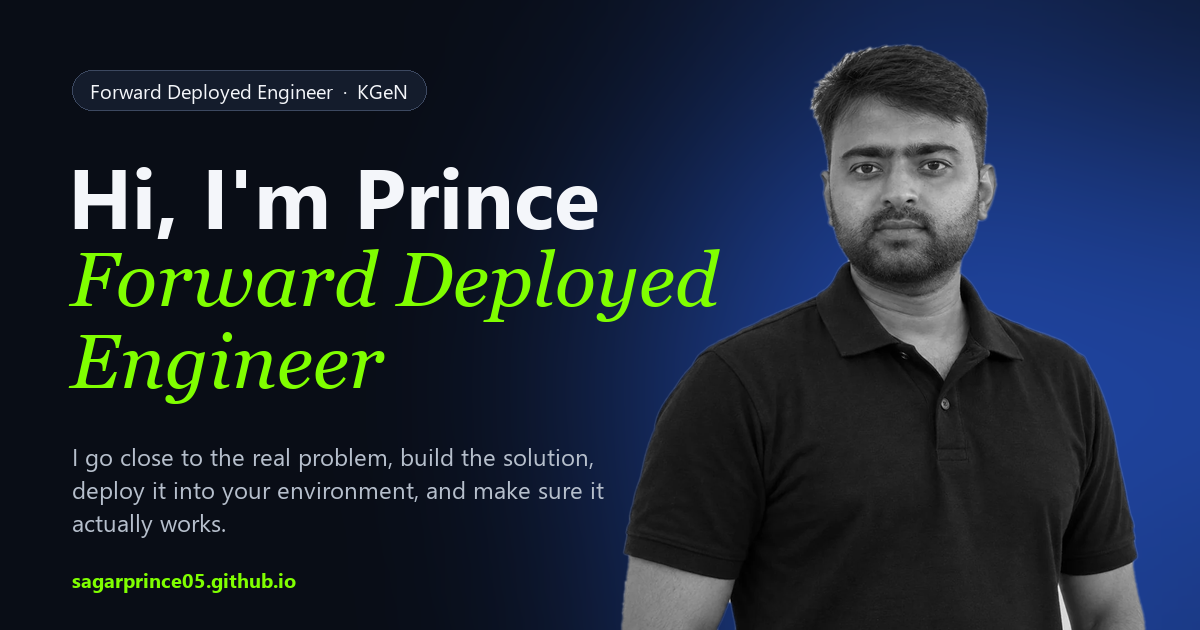
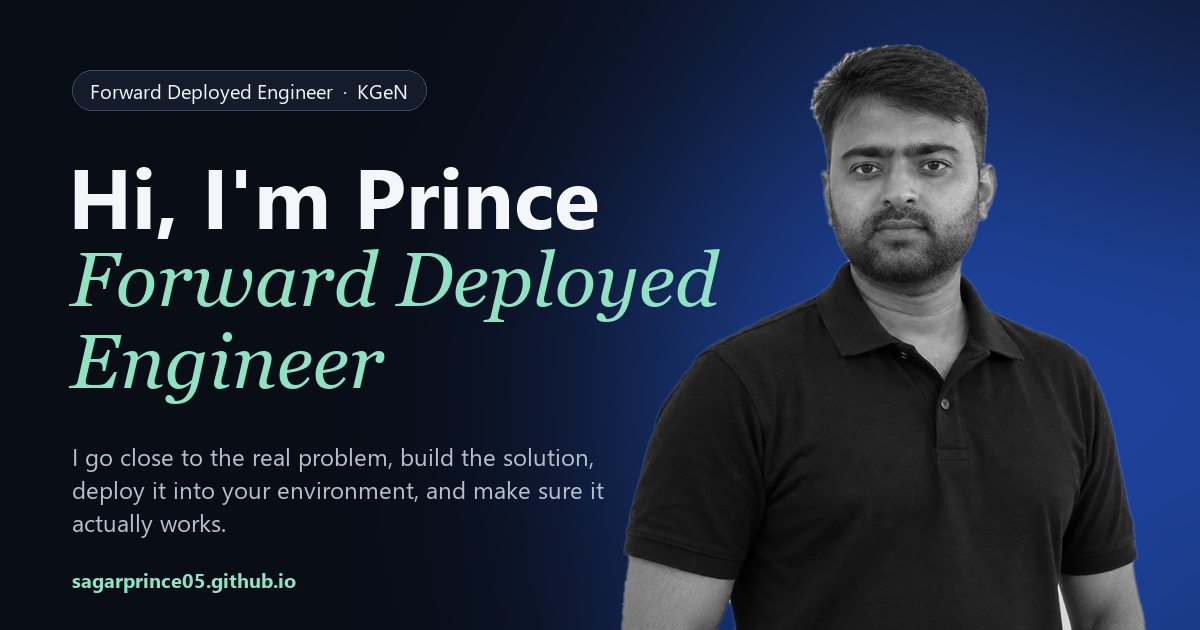
Accent: switch to mint (#8fe3c2)

diff --git a/index.html b/index.html
@@ -16,13 +16,13 @@
   <meta property="og:image" content="https://sagarprince05.github.io/assets/og.png">
   <meta name="twitter:card" content="summary_large_image">
 
-  <link rel="icon" href="assets/favicon.svg?v=20260915c" type="image/svg+xml">
+  <link rel="icon" href="assets/favicon.svg?v=20260915d" type="image/svg+xml">
   <link rel="canonical" href="https://sagarprince05.github.io">
 
   <link rel="preconnect" href="https://fonts.googleapis.com">
   <link rel="preconnect" href="https://fonts.gstatic.com" crossorigin>
   <link href="https://fonts.googleapis.com/css2?family=Inter:wght@400;500;600;700&family=Instrument+Serif:ital@0;1&display=swap" rel="stylesheet">
-  <link rel="stylesheet" href="styles.css?v=20260915c">
+  <link rel="stylesheet" href="styles.css?v=20260915d">
   <link rel="preload" as="image" href="assets/prince.webp" type="image/webp">
 
   <script type="application/ld+json">
@@ -98,7 +98,7 @@
             <span class="stack" aria-hidden="true">
               <span style="background:#2f6bff">HL</span>
               <span style="background:#7c3aed">KG</span>
-              <span style="background:#80ff00;color:#0b0d12">AK</span>
+              <span style="background:#8fe3c2;color:#0b0d12">AK</span>
             </span>
             <span><strong>Trusted by teams</strong> at Humyn Labs, KGeN and AK English Academy — 5 products live in production.</span>
           </p>
@@ -138,13 +138,13 @@
       <div class="statement-wrap">
         <h2 class="statement" id="about-title">My focus is on <em>going close to the real problem</em> — understanding it with the people who own it, building the solution, deploying it into their environment, and <span class="soft">making sure it actually works there, not just in a demo.</span></h2>
         <ul class="chips" aria-label="What I do">
-          <li class="chip"><i style="background:#80ff00"></i>AI / LLM apps &amp; agents</li>
+          <li class="chip"><i style="background:#8fe3c2"></i>AI / LLM apps &amp; agents</li>
           <li class="chip"><i style="background:#2f6bff"></i>Workflow automation</li>
           <li class="chip"><i style="background:#8fd3ff"></i>API &amp; data integration</li>
           <li class="chip"><i style="background:#ffb3c7"></i>Text-to-SQL</li>
           <li class="chip"><i style="background:#f4f6fa"></i>Cloud deployment</li>
           <li class="chip"><i style="background:#c9b6ff"></i>Rapid prototyping</li>
-          <li class="chip"><i style="background:#14b8a6"></i>Data pipelines</li>
+          <li class="chip"><i style="background:#ffd166"></i>Data pipelines</li>
           <li class="chip"><i style="background:#ff9a6b"></i>Customer-facing delivery</li>
         </ul>
       </div>
@@ -455,6 +455,6 @@
     </div>
   </footer>
 
-  <script src="script.js?v=20260915c" defer></script>
+  <script src="script.js?v=20260915d" defer></script>
 </body>
 </html>

diff --git a/styles.css b/styles.css
@@ -1,7 +1,7 @@
 /* ==========================================================================
    Prince Sagar — Forward Deployed Engineer portfolio
    "Midnight" palette: near-black navy, deep blue glows, white type,
-   chartreuse accent, aurora gradient for feature blocks. Tokens live in :root.
+   mint accent, aurora gradient for feature blocks. Tokens live in :root.
    ========================================================================== */
 
 /* ---------- Tokens ---------- */
@@ -20,10 +20,10 @@
   --line: rgba(255, 255, 255, 0.08);
   --line-strong: rgba(255, 255, 255, 0.16);
 
-  --accent: #80ff00;          /* chartreuse */
-  --accent-bright: #a6ff3d;
-  --accent-deep: #66cc00;
-  --accent-soft: rgba(128, 255, 0, 0.14);
+  --accent: #8fe3c2;          /* mint */
+  --accent-bright: #b3f0d8;
+  --accent-deep: #5fcaa4;
+  --accent-soft: rgba(143, 227, 194, 0.14);
   --blue: #2f6bff;
   --blue-soft: rgba(47, 107, 255, 0.35);
   --magenta: #ff3ea5;
@@ -32,7 +32,7 @@
   --on-accent: #0b0d12;
 
   --aurora:
-    radial-gradient(60% 80% at 8% 20%, rgba(128, 255, 0, 0.22) 0%, rgba(128, 255, 0, 0) 60%),
+    radial-gradient(60% 80% at 8% 20%, rgba(143, 227, 194, 0.22) 0%, rgba(143, 227, 194, 0) 60%),
     radial-gradient(55% 70% at 45% 10%, rgba(255, 62, 165, 0.26) 0%, rgba(255, 62, 165, 0) 60%),
     radial-gradient(50% 80% at 60% 90%, rgba(124, 58, 237, 0.38) 0%, rgba(124, 58, 237, 0) 60%),
     radial-gradient(60% 70% at 95% 30%, rgba(20, 184, 166, 0.28) 0%, rgba(20, 184, 166, 0) 60%),
@@ -105,7 +105,7 @@ em { font-family: var(--font-serif); font-style: italic; font-weight: 400; }
 .btn:hover { transform: translateY(-2px); }
 .btn:active { transform: translateY(0); }
 .btn svg { width: 1rem; height: 1rem; }
-.btn-dark { background: var(--accent); color: var(--on-accent); box-shadow: 0 10px 30px -12px rgba(128, 255, 0, 0.55); }
+.btn-dark { background: var(--accent); color: var(--on-accent); box-shadow: 0 10px 30px -12px rgba(143, 227, 194, 0.55); }
 .btn-dark:hover { background: var(--accent-bright); }
 .btn-lime { background: var(--accent); color: var(--on-accent); }
 .btn-lime:hover { background: var(--accent-bright); }
@@ -188,7 +188,7 @@ em { font-family: var(--font-serif); font-style: italic; font-weight: 400; }
   font-family: var(--font-serif); font-style: italic; font-weight: 400;
   font-size: clamp(2.5rem, 5.8vw, 4.6rem); letter-spacing: -0.02em;
   color: var(--accent);
-  text-shadow: 0 0 40px rgba(128, 255, 0, 0.22);
+  text-shadow: 0 0 40px rgba(143, 227, 194, 0.25);
 }
 .hero-blurb { max-width: 30rem; font-size: 1.05rem; line-height: 1.6; color: var(--text); }
 .hero-actions { display: flex; flex-wrap: wrap; gap: 0.6rem; }

diff --git a/projects/voucher-price-tracker.html b/projects/voucher-price-tracker.html
@@ -14,11 +14,11 @@
   <meta property="og:image" content="https://sagarprince05.github.io/assets/og.png">
   <meta name="twitter:card" content="summary_large_image">
   <link rel="canonical" href="https://sagarprince05.github.io/projects/voucher-price-tracker.html">
-  <link rel="icon" href="../assets/favicon.svg?v=20260915c" type="image/svg+xml">
+  <link rel="icon" href="../assets/favicon.svg?v=20260915d" type="image/svg+xml">
   <link rel="preconnect" href="https://fonts.googleapis.com">
   <link rel="preconnect" href="https://fonts.gstatic.com" crossorigin>
   <link href="https://fonts.googleapis.com/css2?family=Inter:wght@400;500;600;700&family=Instrument+Serif:ital@0;1&display=swap" rel="stylesheet">
-  <link rel="stylesheet" href="../styles.css?v=20260915c">
+  <link rel="stylesheet" href="../styles.css?v=20260915d">
 </head>
 <body>
   <a class="skip-link" href="#content">Skip to content</a>
@@ -113,6 +113,6 @@
     </article>
   </main>
 
-  <script src="../script.js?v=20260915c" defer></script>
+  <script src="../script.js?v=20260915d" defer></script>
 </body>
 </html>

diff --git a/projects/site-onboarding.html b/projects/site-onboarding.html
@@ -14,11 +14,11 @@
   <meta property="og:image" content="https://sagarprince05.github.io/assets/og.png">
   <meta name="twitter:card" content="summary_large_image">
   <link rel="canonical" href="https://sagarprince05.github.io/projects/site-onboarding.html">
-  <link rel="icon" href="../assets/favicon.svg?v=20260915c" type="image/svg+xml">
+  <link rel="icon" href="../assets/favicon.svg?v=20260915d" type="image/svg+xml">
   <link rel="preconnect" href="https://fonts.googleapis.com">
   <link rel="preconnect" href="https://fonts.gstatic.com" crossorigin>
   <link href="https://fonts.googleapis.com/css2?family=Inter:wght@400;500;600;700&family=Instrument+Serif:ital@0;1&display=swap" rel="stylesheet">
-  <link rel="stylesheet" href="../styles.css?v=20260915c">
+  <link rel="stylesheet" href="../styles.css?v=20260915d">
 </head>
 <body>
   <a class="skip-link" href="#content">Skip to content</a>
@@ -191,6 +191,6 @@
     <img alt="">
   </dialog>
 
-  <script src="../script.js?v=20260915c" defer></script>
+  <script src="../script.js?v=20260915d" defer></script>
 </body>
 </html>

diff --git a/projects/humyn-watcher.html b/projects/humyn-watcher.html
@@ -14,11 +14,11 @@
   <meta property="og:image" content="https://sagarprince05.github.io/assets/og.png">
   <meta name="twitter:card" content="summary_large_image">
   <link rel="canonical" href="https://sagarprince05.github.io/projects/humyn-watcher.html">
-  <link rel="icon" href="../assets/favicon.svg?v=20260915c" type="image/svg+xml">
+  <link rel="icon" href="../assets/favicon.svg?v=20260915d" type="image/svg+xml">
   <link rel="preconnect" href="https://fonts.googleapis.com">
   <link rel="preconnect" href="https://fonts.gstatic.com" crossorigin>
   <link href="https://fonts.googleapis.com/css2?family=Inter:wght@400;500;600;700&family=Instrument+Serif:ital@0;1&display=swap" rel="stylesheet">
-  <link rel="stylesheet" href="../styles.css?v=20260915c">
+  <link rel="stylesheet" href="../styles.css?v=20260915d">
 </head>
 <body>
   <a class="skip-link" href="#content">Skip to content</a>
@@ -156,6 +156,6 @@
     <img alt="">
   </dialog>
 
-  <script src="../script.js?v=20260915c" defer></script>
+  <script src="../script.js?v=20260915d" defer></script>
 </body>
 </html>

diff --git a/tools/make_og.py b/tools/make_og.py
@@ -9,7 +9,7 @@ OUT = os.path.join(ROOT, "assets", "og.png")
 PHOTO = os.path.join(ROOT, "assets", "prince.webp")
 FONTS = r"C:\Windows\Fonts"
 
-BG, GOLD, INK, MUTED = (9, 13, 22), (128, 255, 0), (244, 246, 250), (182, 191, 204)
+BG, GOLD, INK, MUTED = (9, 13, 22), (143, 227, 194), (244, 246, 250), (182, 191, 204)
 bold = lambda s: ImageFont.truetype(f"{FONTS}\\segoeuib.ttf", s)
 reg = lambda s: ImageFont.truetype(f"{FONTS}\\segoeui.ttf", s)
 serif_i = lambda s: ImageFont.truetype(f"{FONTS}\\georgiai.ttf", s)

diff --git a/README.md b/README.md
@@ -1,6 +1,6 @@
 # Prince Sagar — Portfolio
 
-A fast, accessible portfolio for a Forward Deployed Engineer — dark "midnight" palette (navy, blue glows, chartreuse accent, aurora gradient blocks), photo-led (hero with a cut-out portrait, serif-italic title, tech marquee, screenshot collage, "how it works" cards, results, selected works, contact). Hand-coded in HTML, CSS and vanilla JavaScript — no build step, no frameworks, no trackers.
+A fast, accessible portfolio for a Forward Deployed Engineer — dark "midnight" palette (navy, blue glows, mint accent, aurora gradient blocks), photo-led (hero with a cut-out portrait, serif-italic title, tech marquee, screenshot collage, "how it works" cards, results, selected works, contact). Hand-coded in HTML, CSS and vanilla JavaScript — no build step, no frameworks, no trackers.
 
 ## Files
 
@@ -40,7 +40,7 @@ then visit http://localhost:4173.
 | Project cards | `index.html` → `<section id="work">` — duplicate a `.work-card` |
 | Case studies | `projects/*.html` — copy one to add a new case study, then link it from a card |
 | Contact email | `index.html` → `mailto:` link, `data-email`, and the JSON-LD block in `<head>` |
-| Colours | `styles.css` → `--accent` (chartreuse), `--blue`, `--aurora` and the surface tokens in `:root` |
+| Colours | `styles.css` → `--accent` (mint), `--blue`, `--aurora` and the surface tokens in `:root` |
 
 To use a real screenshot instead of a CSS mock-up on a work card, replace the `<div class="mock">…</div>` with `<img src="assets/screenshots/….webp" alt="" width="640" height="400" loading="lazy">`.
 
